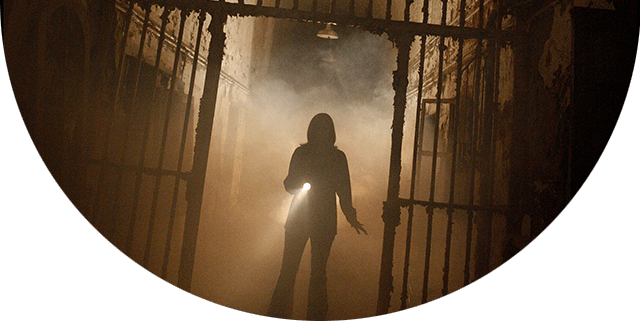
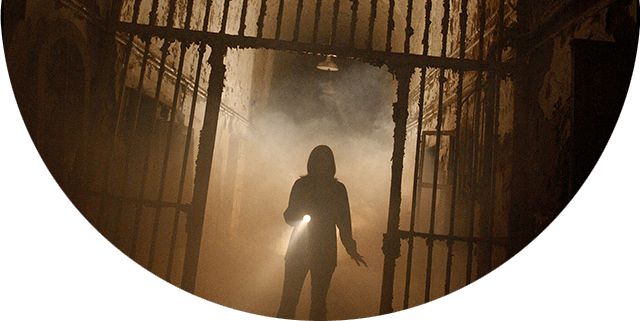
Update assets, styling crossbrowser

diff --git a/dist/css/main.css b/dist/css/main.css
@@ -2263,7 +2263,8 @@ sup {
     filter: drop-shadow(0 0 20px rgba(0, 0, 0, 0.5)); }
   #promo a {
     display: block;
-    cursor: pointer; }
+    cursor: pointer;
+    position: relative; }
   @media all and (max-width: 640px) {
     #promo {
       width: 360px;
@@ -2298,7 +2299,7 @@ sup {
     line-height: 1.3;
     font-family: "Roboto Condensed", Garamond, sans-serif;
     font-size: 36px;
-    text-shadow: 0 2px 6px rgba(0, 0, 0, 0.4); }
+    text-shadow: 0 2px 6px rgba(0, 0, 0, 0.75); }
     @media all and (max-width: 640px) {
       #promo .promo-text {
         font-size: 24px;
@@ -2318,7 +2319,7 @@ sup {
     left: 50%;
     margin-left: -230px;
     z-index: 5;
-    filter: drop-shadow(0 0 10px rgba(0, 0, 0, 0.75)); }
+    filter: drop-shadow(0 2px 10px rgba(0, 0, 0, 0.85)); }
     @media all and (max-width: 640px) {
       #promo .promo-logo {
         width: 320px;
@@ -2328,12 +2329,16 @@ sup {
     width: 100%; }
   #promo .promo-smoke-01 {
     position: absolute;
-    bottom: 0;
-    width: 100%; }
+    bottom: -10px;
+    width: 100%;
+    opacity: 0.65;
+    left: 0; }
   #promo .promo-smoke-02 {
     position: absolute;
-    bottom: 0;
-    width: 100%; }
+    bottom: -10px;
+    width: 100%;
+    left: 0;
+    opacity: 0.65; }
 
 .slick-slide {
   outline: none !important; }

diff --git a/_sass/components/_promo.scss b/_sass/components/_promo.scss
@@ -48,6 +48,7 @@
     a {
         display: block;
         cursor: pointer;
+        position: relative;
     }
 
     @media all and (max-width: 640px) {
@@ -89,7 +90,7 @@
         line-height: 1.3;
         font-family: "Roboto Condensed", Garamond, sans-serif;
         font-size: 36px;
-        text-shadow: 0 2px 6px rgba(0,0,0,0.4);
+        text-shadow: 0 2px 6px rgba(0,0,0,0.75);
 
         @media all and (max-width: 640px) {
             font-size: 24px;
@@ -111,7 +112,7 @@
         left: 50%;
         margin-left: -230px;
         z-index: 5;
-        filter: drop-shadow(0 0 10px rgba(0,0,0,0.75));
+        filter: drop-shadow(0 2px 10px rgba(0,0,0,0.85));
         
         @media all and (max-width: 640px) {
             width: 320px;
@@ -125,14 +126,18 @@
     }
     .promo-smoke-01 {
         position: absolute;
-        bottom: 0;
+        bottom: -10px;
         width: 100%;
+        opacity: 0.65;
+        left: 0;
         //animation: smokeAnimation01 10s ease-in-out 0s infinite;
     }
     .promo-smoke-02 {
         position: absolute;
-        bottom: 0;
+        bottom: -10px;
         width: 100%;
+        left: 0;
+        opacity: 0.65;
         //animation: smokeAnimation02 10s ease-in-out 0s infinite;
     }
 }
